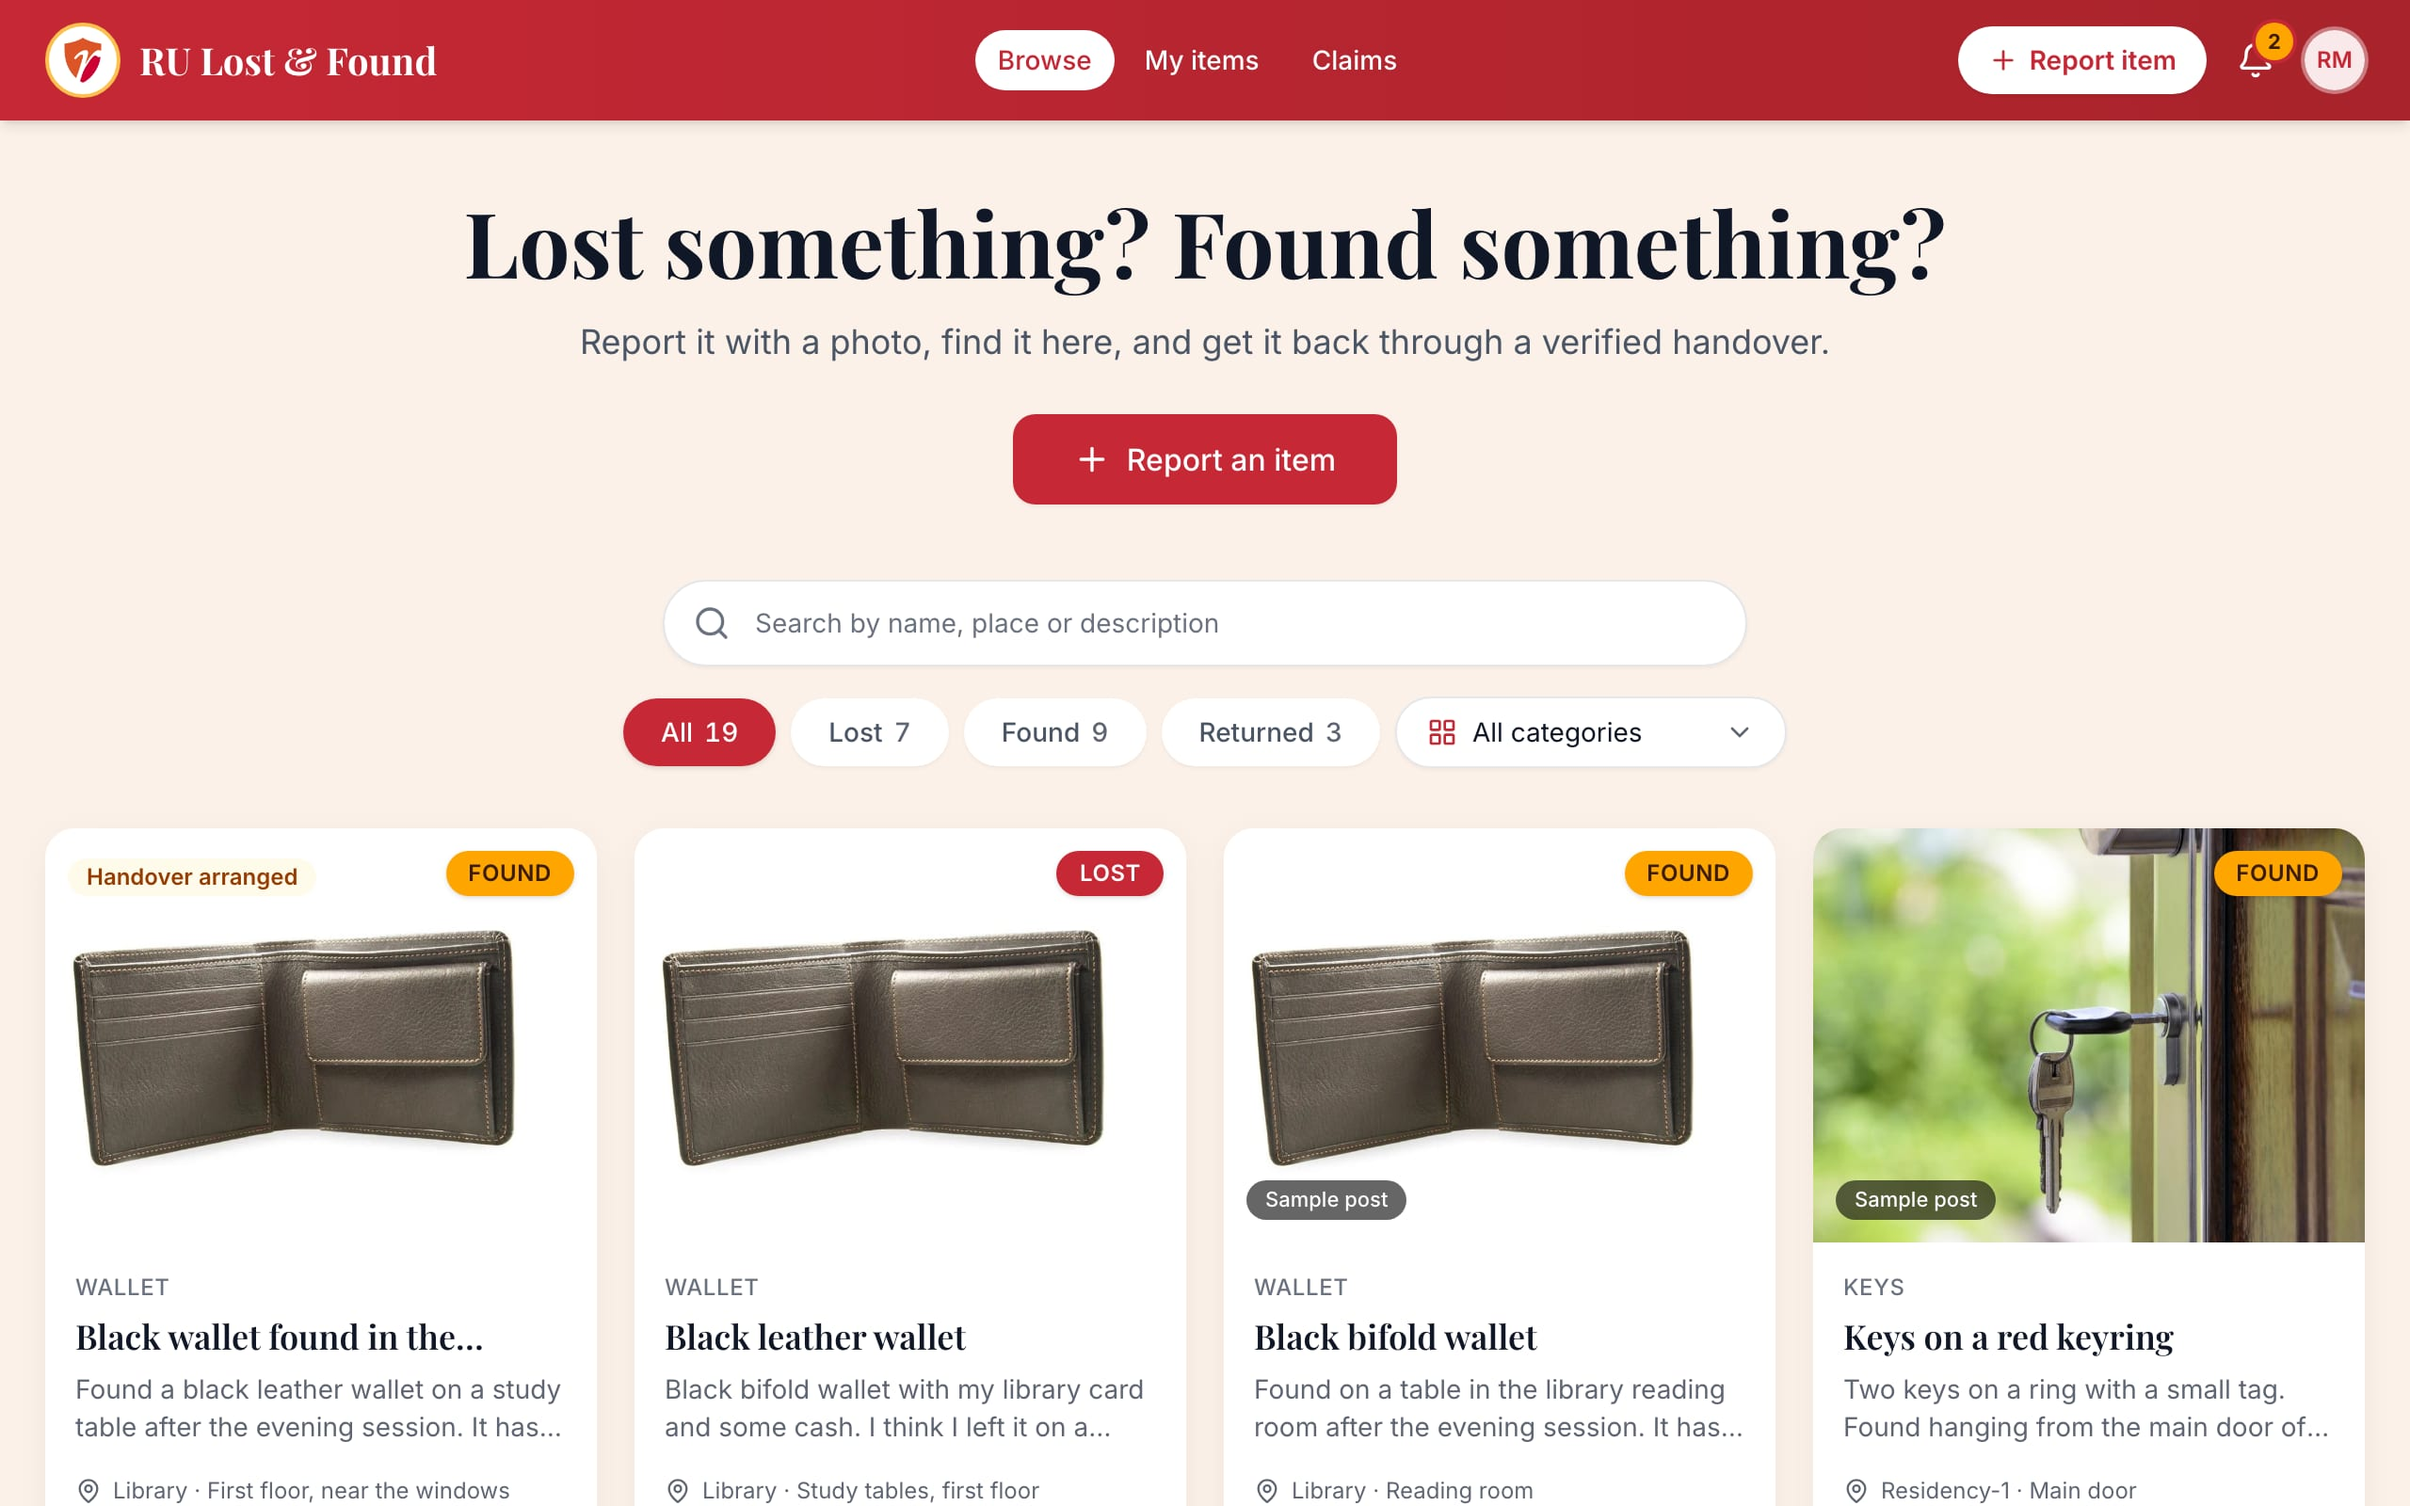
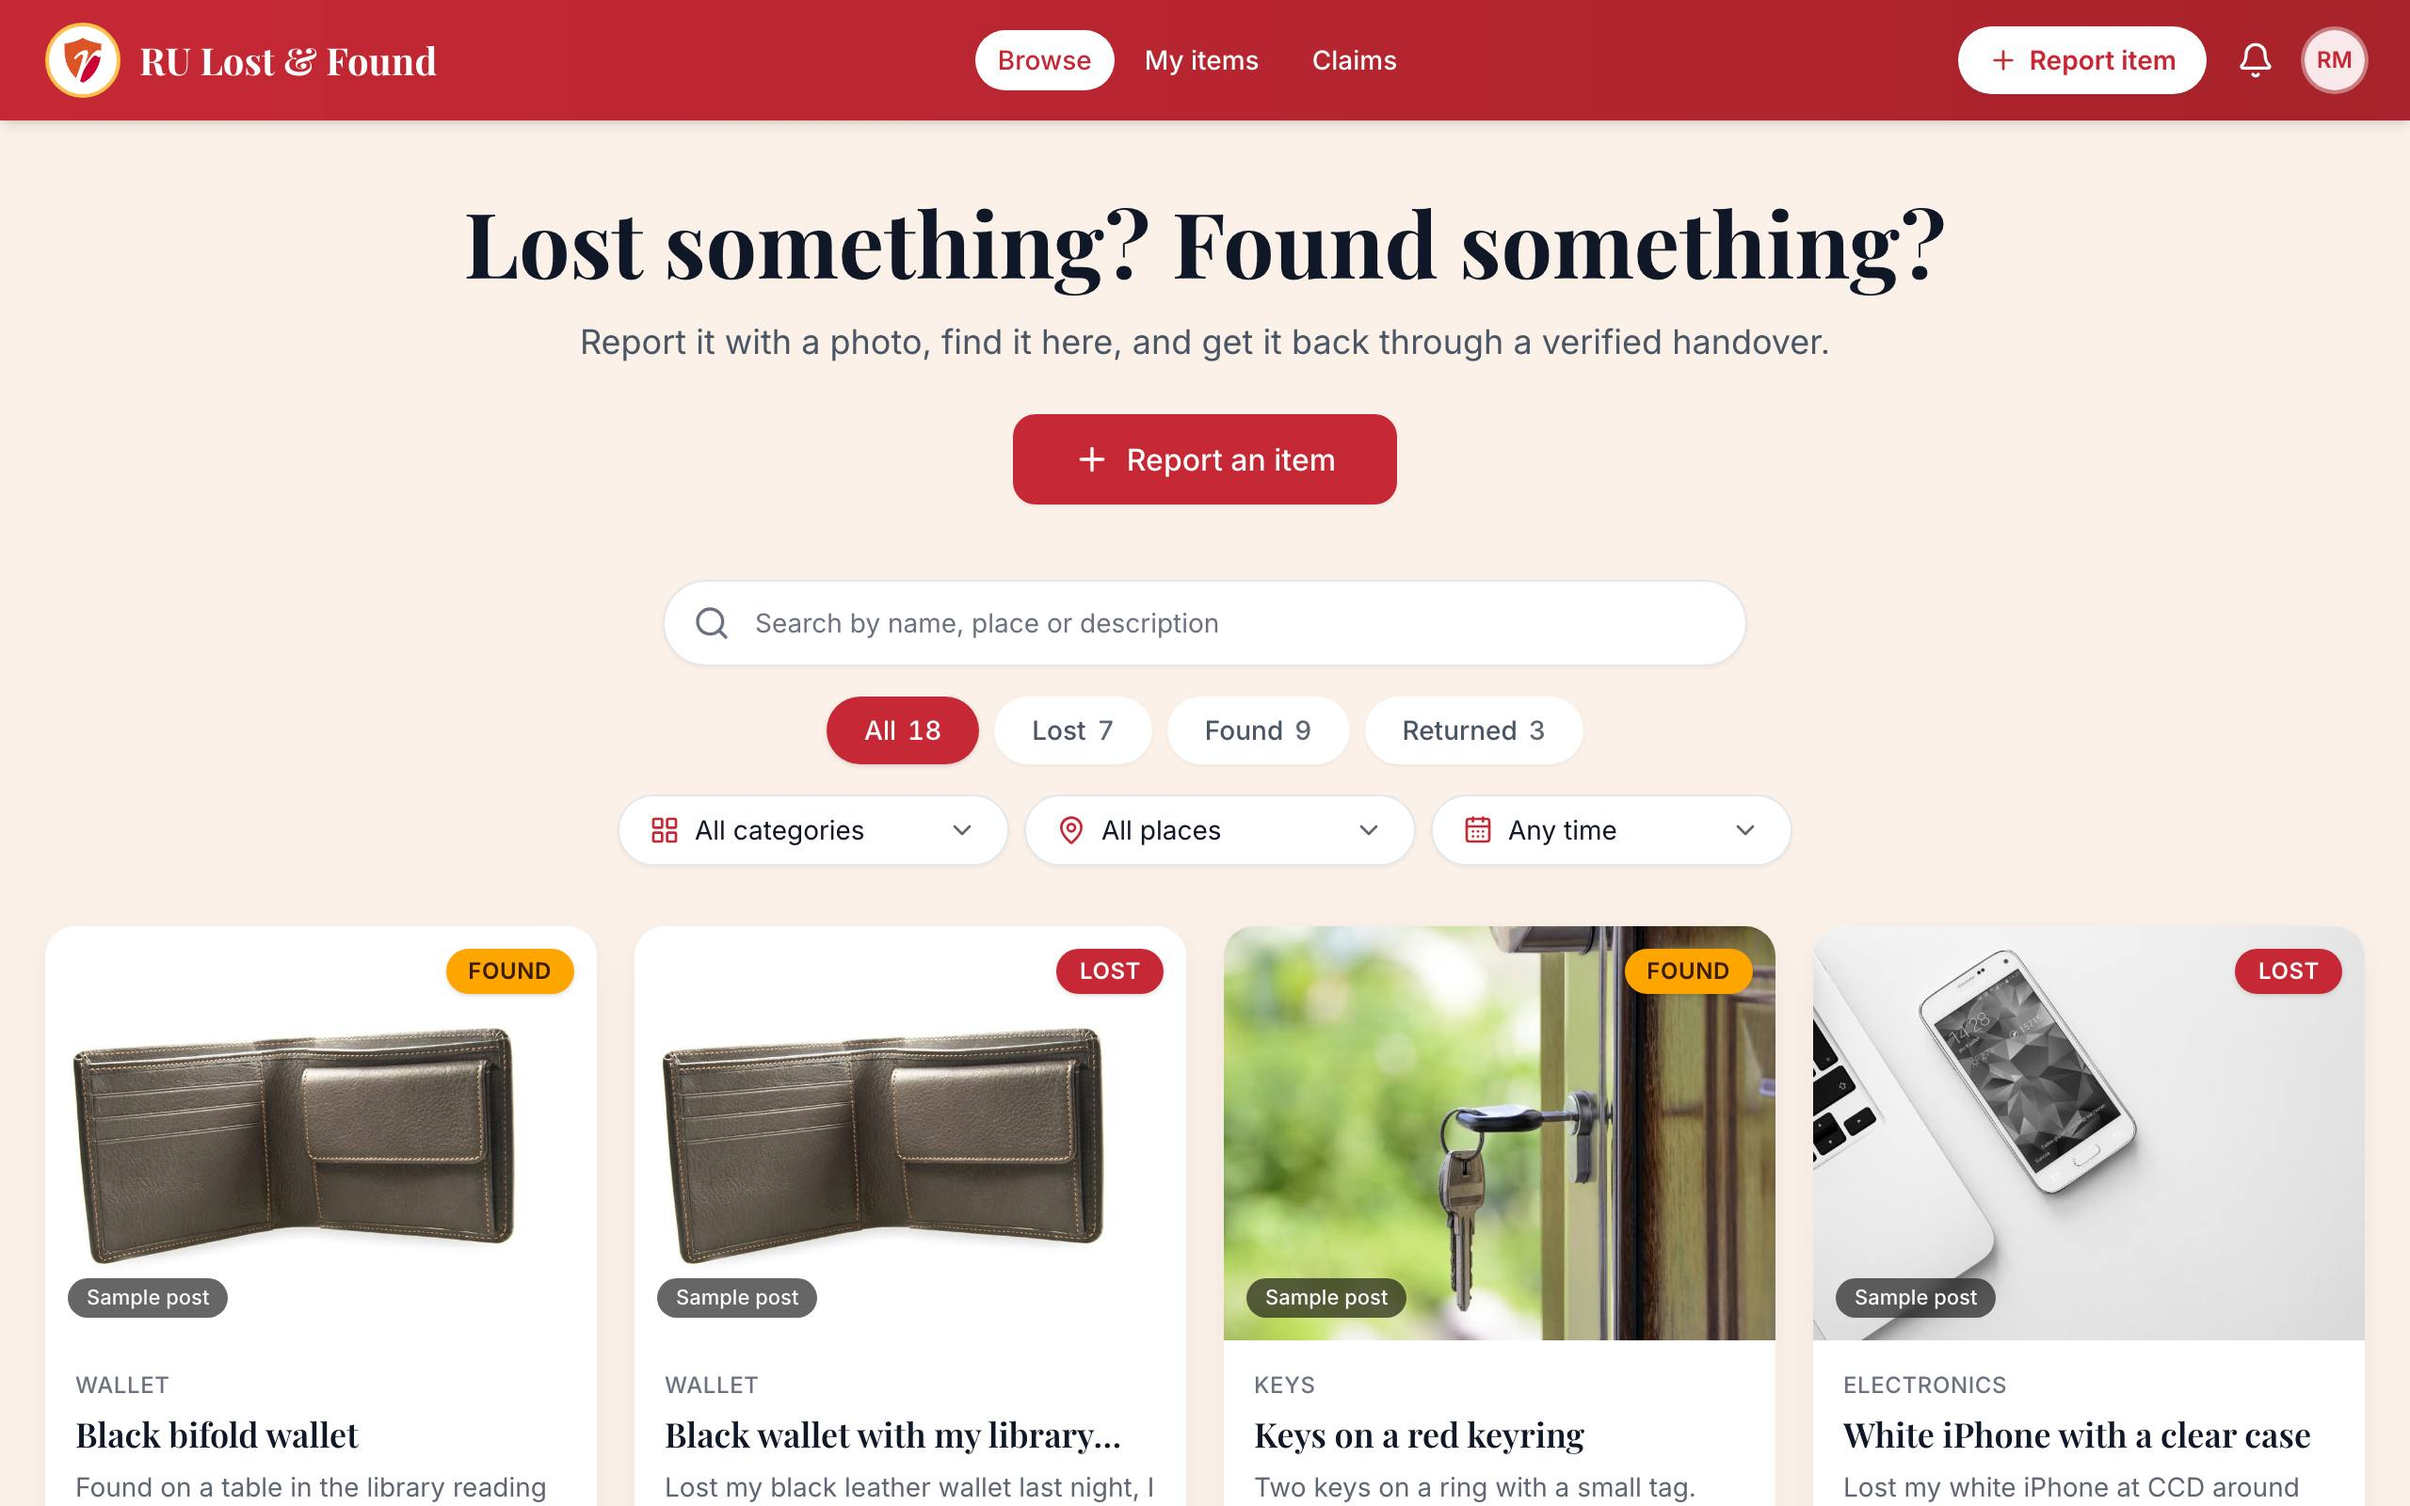
docs: new Browse screenshot with the place and date filters
The README's feed screenshot (25 October) predated the Place and When
filters (#49). Retaken the same way as the others (1280x800 at 2x, a
fresh student account, the sample posts, JPEG at the same quality), after
the phone and tablet fixes (#51). Its alt text names the filters.

diff --git a/README.md b/README.md
@@ -26,7 +26,7 @@ Claims that never get handed over expire, other claims on the item close automat
 ## Screenshots
 
 <p>
-  <img src="docs/screenshots/feed.jpg" alt="The feed of lost and found posts" width="49%" />
+  <img src="docs/screenshots/feed.jpg" alt="The feed of lost and found posts, filtered by category, campus place and date" width="49%" />
   <img src="docs/screenshots/matches.jpg" alt="A lost wallet with a strongly matching found post" width="49%" />
 </p>
 
